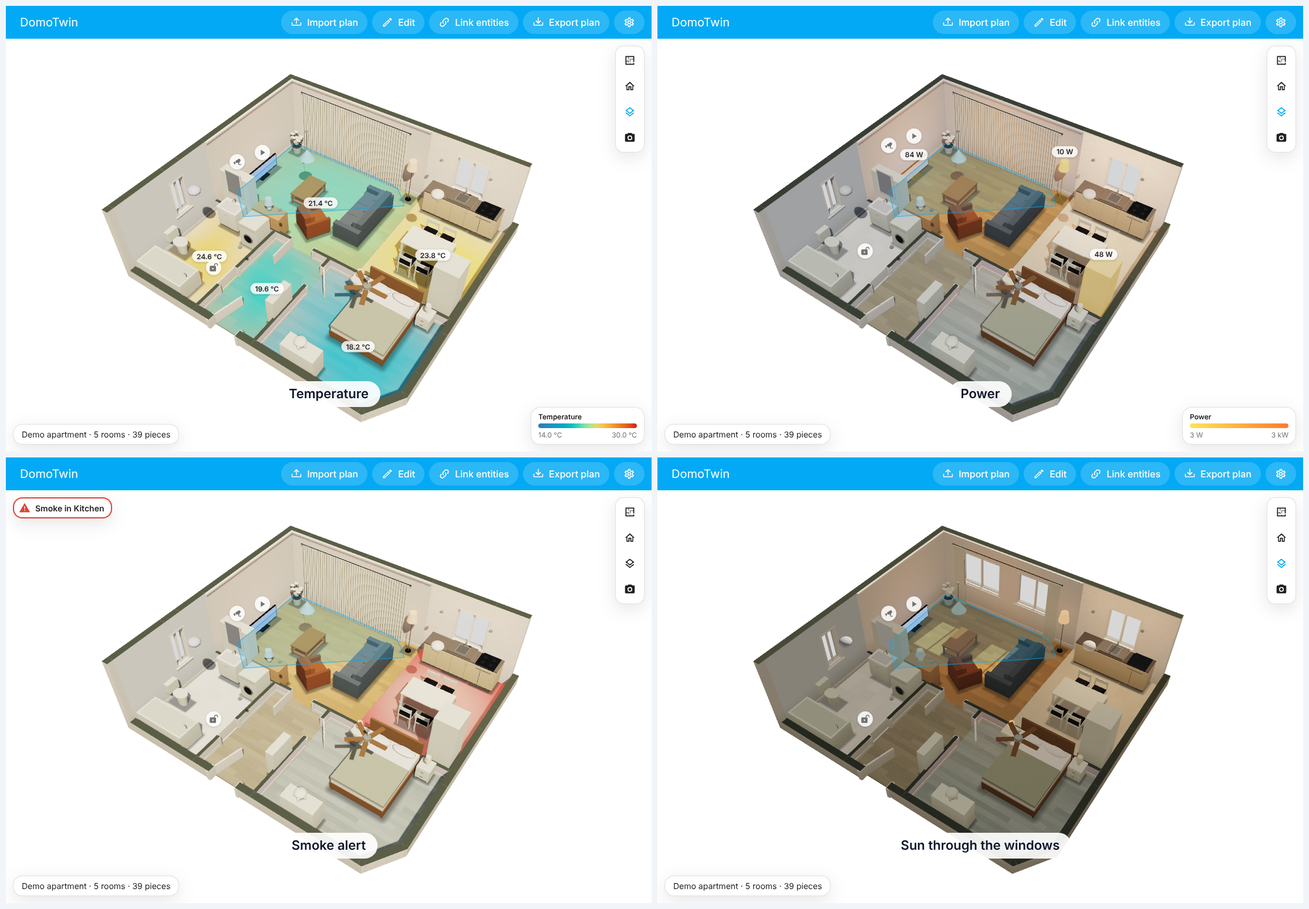
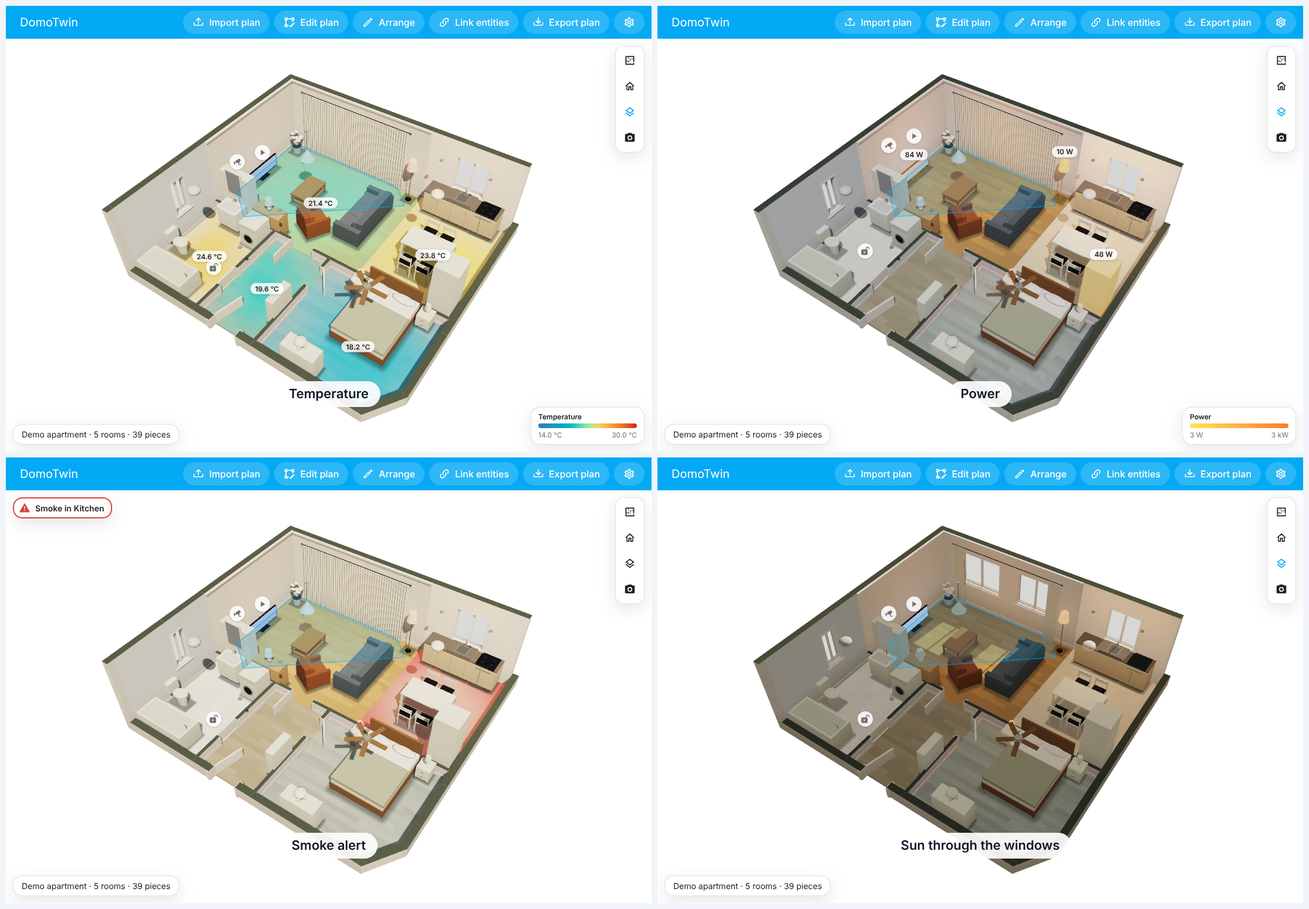
docs: plan editor, d-025, measurements and pictures (m6)
Claude-Session: https://claude.ai/code/session_01MdonJq9hYPn9yZJEoWBmnq

diff --git a/docs/DECISIONS.md b/docs/DECISIONS.md
@@ -279,7 +279,8 @@ explains why. Each entry: context, decision, consequences.
     offered again when edit mode opens.
 - **Consequences.** **Export plan** writes the overlay applied. Added pieces get ids
   `<kind>-added-<n>`. The engine grew by 30 kB gzipped; the edit bar and catalogue load only when
-  edit mode opens. Rooms, walls, doors and windows are not edited in DomoTwin.
+  edit mode opens. Rooms, walls, doors and windows are not edited in DomoTwin (until the plan
+  editor, D-025).
 
 ## D-020 · CI: run what a change needs, nothing twice
 
@@ -467,7 +468,59 @@ Decided while the maintainer was away (M5); open to review.
   - **Unavailable devices.** A lock or a camera that is unavailable greys out its element, as
     lights and covers do.
 - **Consequences.** Views are not cut by furniture, and an open side between two rooms stops a
-  view as a wall would (the room's polygon stands for its walls). A camera must be linked to a piece; cameras of their own come
-  with the plan editor (M6). Badges hide while linking and in edit mode, where taps pick elements.
+  view as a wall would (the room's polygon stands for its walls). A camera must be linked to a
+  piece; cameras of their own come later (the plan editor of M6 does not draw them). Badges hide
+  while linking and in edit mode, where taps pick elements.
   The badges and cones of a large home are a few dozen HTML and SVG nodes, moved only when the
   camera moves.
+
+## D-025 · Plan editor: a draft of the plan's JSON checked by the reader, in a module of its own
+
+Decided while the maintainer was away (M6); open to review.
+
+- **Context.** M6 lets a home be drawn in the app: rooms as polygons, partitions, doors and windows
+  on the rooms' sides, with snapping and lengths, without House Maquette or another program. The
+  format's rules already live in the plan reader; the engine every dashboard loads must stay light
+  (D-022); the furniture is arranged as an overlay (D-019).
+- **Decision.**
+  - **A draft of the JSON.** The editor works on the plan's JSON with the edit overlay applied
+    (the entries the plan accepts, at the current revision), in `domotwin-core::structure`. Every
+    change builds the next JSON and has the plan reader read it: a change refused is forgotten and
+    its code shown (a refused place only stops a drag). Undo keeps whole plans (100 steps); a drag
+    is one step. There is no second model of the plan to keep in step with the format.
+  - **Shapes.** A room is its frame and its corners in it, written back normalised (a legacy
+    `bevel` becomes corners); adding a corner splits a side, removing one merges two, and the per-side settings
+    (`openEdges`, `edgeThickness`, `edgeFinish`) follow their sides. When the room is reshaped, its
+    doors and windows stay on their side (on the half they are on when a corner splits it, on the
+    merged side when one goes) as near their place as they fit, running the same way and opening to
+    the same side; a door moved along its side keeps the side it opens to, and one on a wall two
+    rooms share stays in its own room. A width or a reshape that leaves an opening longer than its
+    side is refused (`opening_too_wide`). An opening is on a side by the walls' own rule (its line
+    within 6 cm of both ends of the side). A room moves with everything whose `parent` it is. A door or a window is placed on the nearest side of a room
+    within 60 cm, centred, kept within the side, a door opening into the room (83 cm; windows
+    120 cm). Removing a room removes its doors and windows; its furniture stays, in no room. Undo
+    and redo wait for a drag to end.
+  - **Snapping** in plan centimetres: onto another room's corner within 12 cm, else in line with
+    the corners of the other rooms within 8 cm (with a guide), else onto a 5 cm grid. Plans are
+    drawn by hand, not measured: these are fixed distances, not a share of the view as in edit mode.
+  - **A module of its own.** The draft is built as its own WebAssembly module
+    (`domotwin-planner`), loaded only when the plan editor opens, like the IFC import and the 3D
+    model readers (D-021): inside the engine it cost 20.5 kB gzipped on every first load (the
+    whole engine is inlined differently), for a tool an administrator opens now and then. The
+    engine only shows each version of the draft (`showDraft`, the selection marked), gives the
+    plan it shows with its overlay (`shownPlan`) and turns screen points into plan points and back.
+    The tools, the drags and the handles (corners, lengths, guides, the shape being drawn) are the
+    frontend's, loaded with the module; the handles follow the camera like the badges (D-024).
+  - **Saving** stores the whole plan, the overlay in it, and an empty overlay, in one save with the
+    revision the editor started from. A plan not saved is kept by the browser for that revision,
+    as edit mode's overlay is (D-019), and by the view while the panel is away from the page (its
+    history with it).
+  - **In 2D only**, apart from edit mode: one or the other is on. Edit mode's button is now
+    **Arrange**, so that it is not mistaken for **Edit plan**.
+- **Consequences.** Once saved from the plan editor, the plan is DomoTwin's: the overlay is in it,
+  and importing a file replaces it as before. A drag move builds the whole scene again (4.7 ms in
+  headless Chromium for the demo apartment, with the JSON passed from one module to the other).
+  Links follow ids: a removed element's links stay stored and do nothing, and a new element never
+  takes an id that has links (nor one given earlier in the session). Open sides, per-side
+  thicknesses and finishes and typed lengths are kept but not edited yet; the first load
+  grew by 7.5 kB gzipped (the engine's 3.3 kB, the texts in two languages, the panel's buttons).

diff --git a/docs/plan-editor.md b/docs/plan-editor.md
@@ -1,0 +1,86 @@
+# Plan editor
+
+Administrators draw and change the plan itself from the DomoTwin panel: rooms as polygons,
+partitions, doors and windows placed on the rooms' sides, with snapping, lengths and undo. A home
+can be drawn from nothing, without House Maquette or any other software. Furniture is arranged in
+[edit mode](edit-mode.md).
+
+![The plan editor: a corner of the living room dragged with the lengths of its sides, and a room drawn beside the home](figures/screenshot-plan-editor.png)
+
+## Using it
+
+In the panel, **Edit plan** opens the plan editor (administrators only); without a plan, **Draw a
+plan** starts a new one with one room of 4 × 3 m. The view shows the 2D plan; the header gets
+**Cancel** and **Save**, and a bar appears at the bottom with the tools, Undo, Redo and Remove.
+
+- **Select and move**: tap a room, a partition, a door or a window (a piece of furniture selects
+  its room). Drag the selection to move it: a room moves with everything in it, a door or a window
+  slides along the rooms' sides. Dragging anywhere else pans the plan.
+- **Corners**: a selected room shows its corners and the length of each side. Drag a corner to
+  reshape the room; the **+** in the middle of a side adds a corner there; the corner grabbed last
+  can be removed from the bar (a room keeps three corners at least). The doors and windows stay on
+  their side, as near their place as they fit, opening the same way.
+- **Draw a room**: drag a rectangle, or tap to drop a room of 3 × 3 m. Its size shows while you
+  draw.
+- **Draw a partition**: drag from one end to the other.
+- **Place a door** or **a window**: tap near a side of a room (within 60 cm). It is centred there,
+  kept within the side, and a door opens into the room. Doors are 83 cm wide, windows 120 cm.
+- **Fields of the selection**, in the bar: the name of everything; a room's floor; a door's width,
+  kind (hinged, glazed, double, folding, sliding, barn, opening without a door, closed for good) and
+  the side it opens to; a window's width; a partition's thickness. A value out of range is marked
+  and not kept; a door or a window wider than its side is refused.
+- **Remove**: the bin of the bar. A room takes its doors and windows with it; the furniture that
+  stood in it stays, in no room.
+- **Undo** and **Redo**: the bar, or Ctrl+Z and Ctrl+Shift+Z (Ctrl+Y). 100 steps are kept; a drag
+  is one step.
+- **Save** stores the plan; **Cancel** asks before discarding changes.
+
+Keys, when no text field has the focus and no dialog is open: Delete or Backspace removes the
+selection, Escape clears it.
+
+### Snapping
+
+A corner being dragged, the corner of a room being moved, and the ends of what you draw go onto a
+**corner of another room** within 12 cm, else line up with the corners of the other rooms within
+8 cm (a dashed guide shows the line), else onto a **5 cm grid**.
+
+### What is checked
+
+Every change is read again by the plan reader before it is kept, as an imported plan is: a room
+that crosses itself or is too small, a width out of range… is refused and the editor says
+why. While dragging, a refused place only stops the drag there.
+
+## Saving
+
+**Save** sends the whole plan with the revision the editor started from: if the plan was saved on
+another device meanwhile, saving is refused. The plan is saved with the furniture as arranged in
+edit mode, and the edit overlay is emptied: the plan is DomoTwin's from then on. Importing a file
+again replaces it, as before.
+
+A plan not saved is kept in the browser's local storage for the revision it started from, on the
+device only, and offered again when the plan editor opens.
+
+Links to entities follow the elements by id: an element moved, reshaped or renamed keeps its links;
+the links of an element removed stay stored and do nothing, and a new element never takes an id that
+has links.
+
+## Limits
+
+Sides without a wall (`openEdges`), per-side wall thicknesses and finishes, a room's colour, wall
+style and materials, and a side's length typed in are not edited here yet: they are kept as the
+plan has them. One storey per plan until M7.
+
+## For developers
+
+- `crates/domotwin-core/src/structure.rs`: the draft (`Draft`): rooms drawn and reshaped, partitions,
+  doors and windows on the rooms' sides, snapping, the history. Plain Rust, tested without a GPU
+  and fuzzed (`fuzz/fuzz_targets/plan_draft.rs`: every change kept leaves a plan the reader
+  accepts).
+- `crates/domotwin-planner/`: the draft for JavaScript, in plan centimetres, its own wasm module
+  (`frontend/src/planner/`), loaded only when the plan editor opens.
+- `crates/domotwin-web/src/plan_editor.rs`: what the plan editor needs from the engine: the plan
+  shown with its overlay (`shownPlan`), showing each version of the draft with the selection marked
+  (`showDraft`), screen points to plan points and back.
+- Frontend: `components/plan-editor.ts` (the tools, drags, handles and lengths over the view,
+  loaded with the planner), `plan-bar.ts` (the bar and the fields), `<domotwin-view>`
+  (`planEditing`, `planTool`), the panel (save, cancel, the draft in `live/draft.ts`).

diff --git a/README.fr.md b/README.fr.md
@@ -17,7 +17,7 @@ Local, rapide, Rust + WebAssembly.</p>
 > route](https://github.com/arthur-leguennec/ha-domotwin/blob/main/docs/ROADMAP.md), en anglais).
 > L’intégration, le panneau, la carte, l’import du plan et de l’IFC, les vues 3D et 2D, le
 > pilotage en direct (états, toucher, appui long, panneau de pièce, liaisons), le mode édition, vos
-> propres modèles 3D, les calques et les appareils fonctionnent déjà ; un éditeur de plan et les
+> propres modèles 3D, les calques, les appareils et l’éditeur de plan fonctionnent déjà ; les
 > étages arrivent ensuite. Les fonctionnalités ci-dessous décrivent la version 0.1.0.
 
 ## Fonctionnalités
@@ -39,6 +39,10 @@ Local, rapide, Rust + WebAssembly.</p>
 - **Appareils.** Des badges sur vos appareils (l’état d’une serrure, une caméra qui enregistre, ce
   qui est en lecture, une batterie faible, le lave-linge en marche), et ce que voit chaque caméra,
   dessiné au sol de sa pièce ; touchez pour l’image en direct.
+- **Éditeur de plan.** Pas de plan à importer ? Dessinez-le dans le panneau : des pièces en
+  polygones avec leurs longueurs, des cloisons, des portes et des fenêtres posées sur les murs, avec
+  aimantation et annulation. Voir [l’éditeur de
+  plan](https://github.com/arthur-leguennec/ha-domotwin/blob/main/docs/plan-editor.md) (en anglais).
 - **Mode édition.** Déplacez, tournez et empilez les meubles avec aimantation, repères et
   annulation, ajoutez des meubles depuis un catalogue, liez n’importe quel objet à des entités (avec
   des suggestions tirées de vos pièces), et ajoutez votre propre meuble ou appareil avec son modèle
@@ -70,6 +74,10 @@ Local, rapide, Rust + WebAssembly.</p>
   <img src="https://raw.githubusercontent.com/arthur-leguennec/ha-domotwin/main/docs/figures/screenshot-devices.png" alt="Les appareils : des badges sur la porte d’entrée, la télévision, la caméra et le lave-linge, et le cône de ce que voit la caméra du séjour sur le plan 2D" width="100%">
 </p>
 
+<p align="center">
+  <img src="https://raw.githubusercontent.com/arthur-leguennec/ha-domotwin/main/docs/figures/screenshot-plan-editor.png" alt="L’éditeur de plan : un coin du séjour déplacé avec les longueurs de ses côtés, et une pièce dessinée à côté du logement" width="100%">
+</p>
+
 ## Démarrage rapide
 
 1. **Installer.** Utilisez le bouton ci-dessus, ou ajoutez dans HACS
@@ -83,7 +91,8 @@ Local, rapide, Rust + WebAssembly.</p>
    Pas encore de plan ? Essayez l’appartement fictif
    [`examples/demo-apartment.plan.json`](https://github.com/arthur-leguennec/ha-domotwin/blob/main/examples/demo-apartment.plan.json)
    ou
-   [`examples/demo-apartment.ifc`](https://github.com/arthur-leguennec/ha-domotwin/blob/main/examples/demo-apartment.ifc).
+   [`examples/demo-apartment.ifc`](https://github.com/arthur-leguennec/ha-domotwin/blob/main/examples/demo-apartment.ifc),
+   ou **Dessiner un plan** dans l’application.
 
 Ajoutez ensuite la carte **DomoTwin** à n’importe quel tableau de bord depuis le sélecteur de
 cartes.
@@ -143,6 +152,10 @@ dans
 avec son schéma JSON, et un étage d’un fichier IFC (ISO 16739, exporté par FreeCAD, Blender avec
 Bonsai, ArchiCAD ou Revit) : voir [l’import
 IFC](https://github.com/arthur-leguennec/ha-domotwin/blob/main/docs/ifc-import.md) (en anglais).
+
+**Puis-je dessiner mon logement sans autre logiciel ?** Oui : **Dessiner un plan** dans le
+panneau (ou **Modifier le plan** pour en changer un), voir [l’éditeur de
+plan](https://github.com/arthur-leguennec/ha-domotwin/blob/main/docs/plan-editor.md) (en anglais).
 
 **Puis-je utiliser mes propres meubles ?** Oui : en mode édition, **Importer un modèle 3D** accepte
 un fichier glTF/GLB, OBJ, STL ou 3MF de 8 Mo au plus. Donnez sa taille réelle ; il se place,

diff --git a/README.md b/README.md
@@ -16,9 +16,9 @@ Local, fast, Rust + WebAssembly.</p>
 > **Status: early development.** DomoTwin is built milestone by milestone
 > ([roadmap](https://github.com/arthur-leguennec/ha-domotwin/blob/main/docs/ROADMAP.md)). The
 > integration, the panel, the card, the plan and IFC import, the 3D and 2D views, live control
-> (states, tap, long press, room panel, linking), the edit mode, your own 3D models, the layers and
-> the devices work today; a plan editor and storeys come next. The features below describe
-> version 0.1.0.
+> (states, tap, long press, room panel, linking), the edit mode, your own 3D models, the layers, the
+> devices and the plan editor work today; storeys come next. The features below describe version
+> 0.1.0.
 
 ## Features
 
@@ -37,6 +37,9 @@ Local, fast, Rust + WebAssembly.</p>
 - **Devices.** Badges over your devices (a lock's state, a camera recording, what plays, a battery
   running low, the washing machine running), and what each camera sees drawn on the floor of its
   room; tap for the live picture.
+- **Plan editor.** No plan to import? Draw one in the panel: rooms as polygons with their lengths,
+  partitions, doors and windows placed on the walls, with snapping and undo. See [plan
+  editor](https://github.com/arthur-leguennec/ha-domotwin/blob/main/docs/plan-editor.md).
 - **Edit mode.** Move, rotate and stack furniture with snapping, guides and undo, add pieces from
   a catalogue, link any object to entities (with suggestions from your areas), and add your own
   furniture or appliance with its 3D model (glTF/GLB, OBJ, STL or 3MF). See
@@ -66,6 +69,10 @@ Local, fast, Rust + WebAssembly.</p>
   <img src="https://raw.githubusercontent.com/arthur-leguennec/ha-domotwin/main/docs/figures/screenshot-devices.png" alt="Devices: badges over the entrance door, the TV, the camera and the washing machine, and the cone of what the living room's camera sees on the 2D plan" width="100%">
 </p>
 
+<p align="center">
+  <img src="https://raw.githubusercontent.com/arthur-leguennec/ha-domotwin/main/docs/figures/screenshot-plan-editor.png" alt="The plan editor: a corner of the living room dragged with the lengths of its sides, and a room drawn beside the home" width="100%">
+</p>
+
 ## Quick start
 
 1. **Install.** Use the button above, or in HACS add
@@ -78,7 +85,8 @@ Local, fast, Rust + WebAssembly.</p>
    yet? Try the fictional
    [`examples/demo-apartment.plan.json`](https://github.com/arthur-leguennec/ha-domotwin/blob/main/examples/demo-apartment.plan.json)
    or
-   [`examples/demo-apartment.ifc`](https://github.com/arthur-leguennec/ha-domotwin/blob/main/examples/demo-apartment.ifc).
+   [`examples/demo-apartment.ifc`](https://github.com/arthur-leguennec/ha-domotwin/blob/main/examples/demo-apartment.ifc),
+   or **Draw a plan** in the app.
 
 Then add the **DomoTwin** card to any dashboard from the card picker.
 
@@ -133,6 +141,10 @@ WebAssembly) reads the plan, builds the geometry and draws it with WebGL2. More 
 with its JSON Schema, and one storey of an IFC file (ISO 16739, exported by FreeCAD, Blender with
 Bonsai, ArchiCAD or Revit): see [IFC
 import](https://github.com/arthur-leguennec/ha-domotwin/blob/main/docs/ifc-import.md).
+
+**Can I draw my home without another program?** Yes: **Draw a plan** in the panel (or **Edit
+plan** to change one), see [plan
+editor](https://github.com/arthur-leguennec/ha-domotwin/blob/main/docs/plan-editor.md).
 
 **Can I use my own furniture?** Yes: in edit mode, **Import a 3D model** takes a glTF/GLB, OBJ, STL
 or 3MF file up to 8 MB. Give its real size; it is placed, stacked and linked like any piece, kept

diff --git a/docs/ROADMAP.md b/docs/ROADMAP.md
@@ -15,7 +15,7 @@ Legend: ✅ done · 🚧 in progress · ⏳ planned · ❓ needs a decision from
 | M3b       | Your own furniture and appliances with their 3D model      | ✅     |
 | M4        | Layers: heatmap, alerts, presence, real sun, power         | ✅     |
 | M5        | Devices: cameras and what they see, locks, appliances      | ✅     |
-| M6        | Plan editor: draw rooms, walls, doors and windows          | ⏳     |
+| M6        | Plan editor: draw rooms, walls, doors and windows          | ✅     |
 | M7        | Storeys: several floors, stairs, a storey switcher         | ⏳     |
 | M8        | Looks and kiosk: themes, walk mode, idle and night modes   | ⏳     |
 | M9        | Imports: Sweet Home 3D, DXF, room scans                    | ⏳     |
@@ -281,13 +281,36 @@ Devices drawn as what they are (`DECISIONS.md`, D-024; `bindings.md`, Devices).
 
 ![Devices: badges over the entrance door, the TV, the camera and the washing machine; what the living room's camera sees](figures/screenshot-devices.png)
 
-Left for later: cameras not on a piece (M6, drawn with the plan editor), a camera's picture in the
+Left for later: cameras not on a piece (not drawn by the plan editor either), a camera's picture in the
 view, cones cut by furniture, more device classes (vacuums with their position, irrigation).
 
 ## M6, plan editor
 
-Draw a plan in the app: rooms as polygons, walls, doors and windows placed on walls, with snapping
-and measurements, saved as a House Maquette plan.
+Draw a plan in the app (`DECISIONS.md`, D-025; [`plan-editor.md`](plan-editor.md)).
+
+- ✅ **Edit plan** in the panel, **Draw a plan** when none is stored (a new plan with one room); the
+  2D plan, Cancel and Save, a bar with the tools, Undo, Redo and Remove.
+- ✅ **Rooms**: drawn as rectangles or dropped with a tap, moved with everything in them, reshaped
+  by their corners (dragged, added in the middle of a side, removed), the length of each side
+  shown; name and floor.
+- ✅ **Partitions** drawn from end to end, with their thickness; **doors** and **windows** placed on
+  the nearest side of a room, moved along the sides, kept on their side when the room is reshaped;
+  width, kind and opening side of doors.
+- ✅ **Snapping** onto the other rooms' corners, in line with them (with guides), else onto a 5 cm
+  grid; every change checked by the plan reader, refused changes said.
+- ✅ **Saved** with the overlay in the plan, refused if another device saved; a plan not saved kept
+  by the browser and offered again. Edit mode's button is now **Arrange**.
+- ✅ The draft in **its own wasm module**, loaded when the plan editor opens: the first load grew by
+  7.5 kB gzipped.
+- ✅ Tests: the draft's changes (Rust) and fuzzing (every change kept leaves a plan the reader
+  accepts); the engine's drafts and points in headless Chromium; the fields, keys, labels and
+  draft storage (vitest); editing, drawing from nothing, keys, the kept draft and cancelling
+  (Playwright); the cost of a drag (4.7 ms).
+
+![The plan editor: a corner of the living room dragged with the lengths of its sides, and a room drawn beside the home](figures/screenshot-plan-editor.png)
+
+Left for later: sides without a wall, per-side thicknesses and finishes, typing a side's length,
+a camera of its own (not on a piece), several storeys (M7).
 
 ## M7, storeys
 

diff --git a/docs/ARCHITECTURE.md b/docs/ARCHITECTURE.md
@@ -14,12 +14,15 @@ interface.
 | `domotwin-web`    | core, render, `web-sys` | canvas, JS values, timing           | HA                   |
 | `domotwin-ifc`    | `serde_json`            | IFC files, one storey → plan JSON   | core, GPU, HA        |
 | `domotwin-models` | `serde_json`, `miniz_oxide` | glTF, OBJ, STL, 3MF → meshes    | core, GPU, HA        |
+| `domotwin-planner` | core, `serde_json`     | the plan editor's draft (D-025)     | GPU, browser, HA     |
 
 `domotwin-ifc` is the IFC import (`ifc-import.md`): its own wasm module, loaded only when a `.ifc`
 file is imported, writing an ordinary plan that the core then reads like any other.
 `domotwin-models` reads the 3D files of user models (D-021): its own wasm module too, loaded only
 when a plan shows a piece drawn from a 3D file or one is imported. It writes a compact mesh that
 the core fits into the piece (`model_mesh`, `scene::imported`).
+`domotwin-planner` is the plan editor's draft (`plan-editor.md`, D-025): its own wasm module too,
+loaded only when the plan editor opens; the engine shows each version of the draft.
 
 `domotwin-core` is where the logic lives and where the tests concentrate. It never panics on input:
 every reader returns `Result` with a stable error code that the frontend translates.
@@ -29,8 +32,9 @@ every reader returns `Result` with a stable error code that the frontend transla
 - `src/entry.ts` is the module Home Assistant loads on every page (`add_extra_js_url`). It only
   defines the custom elements and registers the card in the card picker. The engine, the panel UI
   and the editor are separate chunks loaded on demand.
-- `src/engine/` loads the wasm module once per page and wraps it in a typed API. `src/ifc/` and
-  `src/models/` load the IFC import and the 3D model readers the same way, on demand.
+- `src/engine/` loads the wasm module once per page and wraps it in a typed API. `src/ifc/`,
+  `src/models/` and `src/planner/` load the IFC import, the 3D model readers and the plan editor's
+  draft the same way, on demand.
 - `src/scheduler.ts` drives rendering **on demand** (see the figure below): a frame is requested only when the camera
   moves, a state changes, an animation runs or an edit is dragged; it stops when the engine reports
   that nothing is moving, and pauses entirely when the view is off-screen

diff --git a/docs/PERFORMANCE.md b/docs/PERFORMANCE.md
@@ -223,3 +223,26 @@ In headless Chromium with the demo apartment (three elements with badges, one ca
 out the badges from the `hass` object takes 0.04 ms, the elements' points 0.02 ms and the cameras'
 cones 0.07 ms, read only when the camera moves or a state changes; the CPU time per frame is
 unchanged (0.3 ms median, 1.1 ms p95).
+
+### M6 (plan editor)
+
+Bundle: the first load is **334.8 kB gzipped** of 1 200 kB (+7.5 kB):
+
+| File | Raw | Gzipped |
+| --- | ---: | ---: |
+| `domotwin_web_bg.<hash>.wasm` | 621.5 kB | 270.7 kB |
+| `domotwin.js` (entry) | 90.4 kB | 23.8 kB |
+| `domotwin_planner_bg.<hash>.wasm` (on demand) | 237.9 kB | 112.8 kB |
+| The plan editor's JS: bar, tools and handles, glue (on demand) | 29.6 kB | 10.2 kB |
+
+Inside the engine, the plan editor cost 20.5 kB gzipped (LTO inlined the whole engine
+differently): it is its own module, loaded when the plan editor opens (D-025). The engine grew by
+3.3 kB (showing a draft, marking the selection, the plan shown with its overlay, points both
+ways), the first load's other chunks by 4.2 kB (the texts in English and French, the panel's and
+the view's side of the plan editor).
+
+In headless Chromium with the demo apartment, dragging a corner of the living room costs 4.7 ms
+per pointer move (median; 12 ms p95): the change checked by the plan reader in the planner, the
+draft passed as JSON to the engine, read again, the whole scene built and uploaded, and the
+handles placed; drawing the frame then takes 0.2 ms. The view applies at most one move per frame;
+a tap that only selects marks the element without building the scene again.

diff --git a/docs/edit-mode.md b/docs/edit-mode.md
@@ -3,14 +3,15 @@
 Administrators rearrange the furniture of the imported plan from the DomoTwin panel: move, turn,
 stack, remove and add pieces, with undo. The plan as imported is never changed: the edits are an
 **overlay** stored beside it (`layout`), so importing an updated plan later keeps the edits of the
-pieces that still exist. Rooms, walls, doors and windows belong to the plan: change them in House
-Maquette (or your modelling software) and import again.
+pieces that still exist. Rooms, partitions, doors and windows are changed in the
+[plan editor](plan-editor.md), or in House Maquette (or your modelling software) and imported
+again.
 
 ![Edit mode: a piece dragged on the 2D plan with its guides, and the catalogue](figures/screenshot-edit.png)
 
 ## Using it
 
-In the panel, **Edit** opens edit mode (administrators only). The header gets **Cancel** and
+In the panel, **Arrange** opens edit mode (administrators only). The header gets **Cancel** and
 **Save**, and a bar appears at the bottom of the view.
 
 - **Select**: tap a piece. **Select several** in the bar (or Ctrl, Cmd or Shift with the tap, or a
